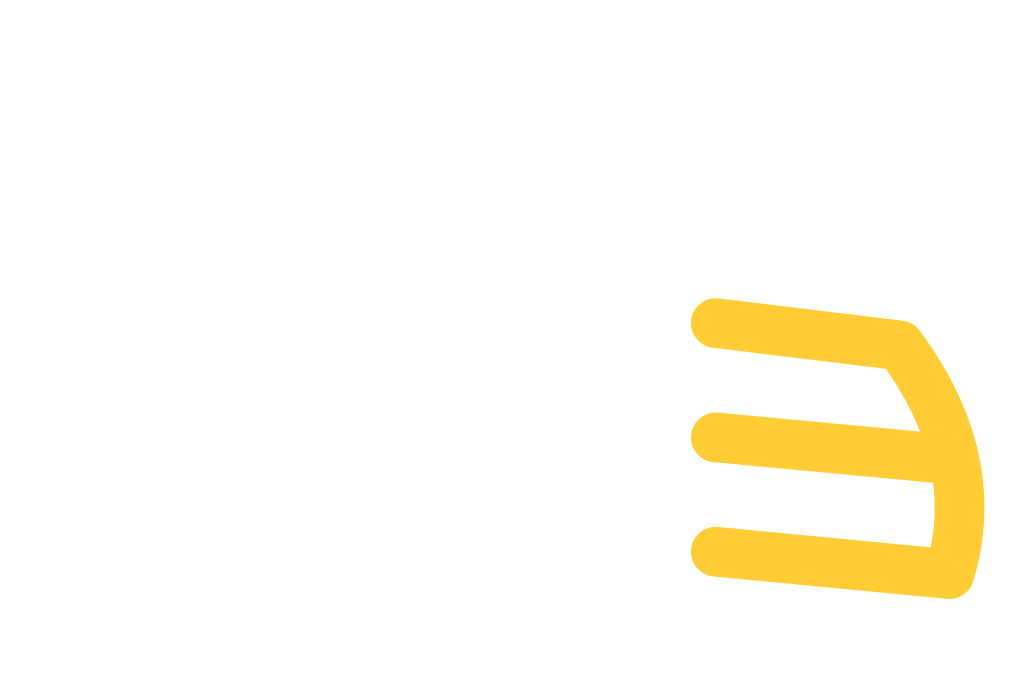
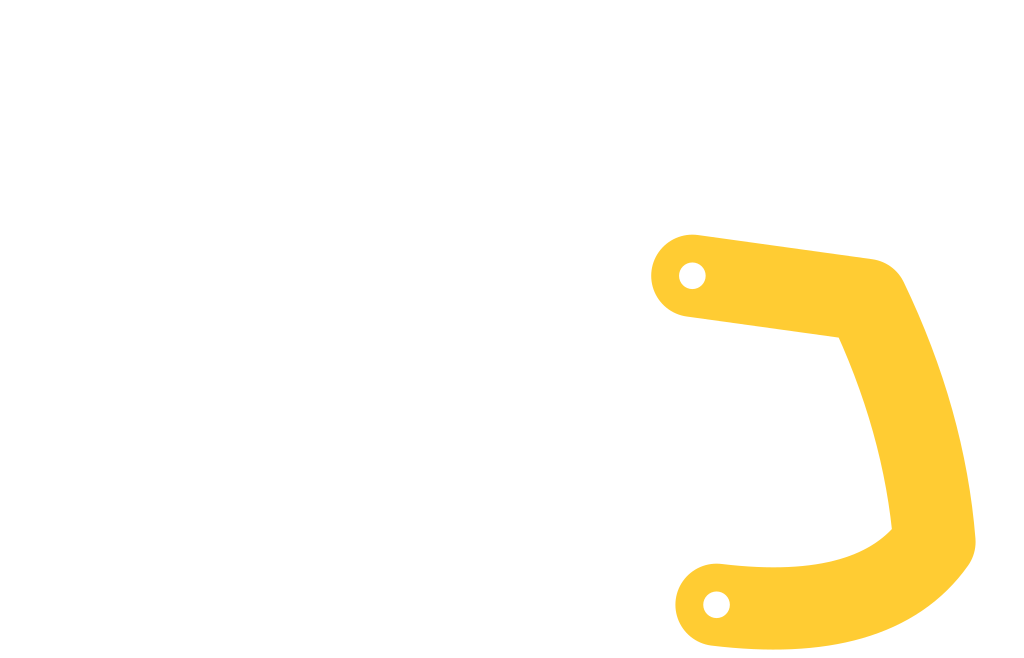
Brand: HELMET's face mask attaches to the shell (no longer reads as a 3)

Changed region(s): [[0.625, 0.3343, 0.9688, 1.0]]

diff --git a/site/brand/README.md b/site/brand/README.md
@@ -2,7 +2,7 @@
 
 **The mark is an American football helmet in side view, facing right, with a gold face mask**, because HELMET is what
 every app puts on before it ships. A white shell, a clear face opening, a jaw guard, one ear hole, and one gold detail:
-the mask. It suits Wayne State's Warriors green and gold.
+the mask, bolted to the shell. It suits Wayne State's Warriors green and gold.
 
 ## Colours
 | Role | Colour |
@@ -21,8 +21,8 @@ Gold never sits behind white text.
 | `helmet-mark-white.svg` | The mark on dark or green backgrounds: white shell, gold mask |
 | `helmet-mark-mono.svg` | One colour (`currentColor`), for print and single-ink use |
 | `helmet-tile.svg` | The app icon: a green rounded tile with the white helmet |
-| `helmet-favicon.svg` | The tile simplified for 32 and 64 px: two mask bars instead of three, and thicker bars |
-| `helmet-favicon-16.svg` | Hand-hinted on the 16 px grid. One unit is one pixel. The ear hole is a single pixel and the mask keeps one clear column between it and the shell |
+| `helmet-favicon.svg` | The tile simplified for 32 and 64 px: a thicker mask, no bolt holes, a larger ear hole |
+| `helmet-favicon-16.svg` | Hand-hinted on the 16 px grid. One unit is one pixel. The ear hole is a single pixel, and both gold bars touch the white shell |
 | `helmet-avatar-512.png` | The GitLab project avatar and the Open Graph image base |
 | `helmet-mark-1024.png`, `helmet-mark-white-1024.png` | Raster marks for slides and documents |
 | `favicon-16.png`, `favicon-32.png`, `favicon-64.png`, `favicon.ico` | Browser favicons; the `.ico` holds all three |
@@ -32,15 +32,17 @@ The SVGs are drawn from exact geometry, not traced.
 - **The shell:** an ellipse 316 units wide and 292 tall, cut off by a flat lower edge with a small rounded nape. Under
   the brow the shell steps back to a straight face-opening edge, and a jaw guard reaches forward at the bottom.
 - **The ear hole:** a circle of radius 19, cut out of the shell.
-- **The mask:** three horizontal bars, 20 units thick with round ends, joined by a front upright that bows gently and
-  leans forward at the bottom. The bars tilt 9 units down towards the front. The mask is the only gold, and it stays
-  about 10 units clear of the shell so the two shapes never merge.
-- **The mask is drawn with strokes** (round caps and joins) so the bars stay an even thickness. In the one-colour
-  version both shapes use `currentColor`; the gap keeps them apart.
+- **The mask:** one gold stroke, 34 units thick with round ends. The top bar leaves the brow and runs forward, a front
+  upright bows gently and leans forward, and the bottom bar runs under the chin and sweeps back up into the jaw guard.
+  Both ends sit inside the shell, each with a small bolt hole, so the mask reads as a cage fixed to the helmet and not as
+  a letter. In the one-colour version everything uses `currentColor`.
+- **The face opening:** one open bay. The brow underside sweeps back and the jaw guard comes forward again; nothing
+  frames it, and the background shows through.
 
-Two rules came out of earlier drafts. There is no symmetric dome with a vertical slot, because it read as the wrong
-thing. And the front upright of the mask is never bent into a character shape such as a "3": it stays a gentle curve,
-with the bars clearly horizontal.
+Three rules came out of earlier drafts. There is no symmetric dome with a vertical slot, because it read as the wrong
+thing. The mask never floats free of the shell, and it is never three bars closed by an upright on the right, because
+that reads as the digit "3" or the letter "E". And the opening has no panel behind the mask, because a boxed panel
+frames the mask like a glyph.
 
 ## Rendering
 The PNGs were rendered with Inkscape 1.4, for example
